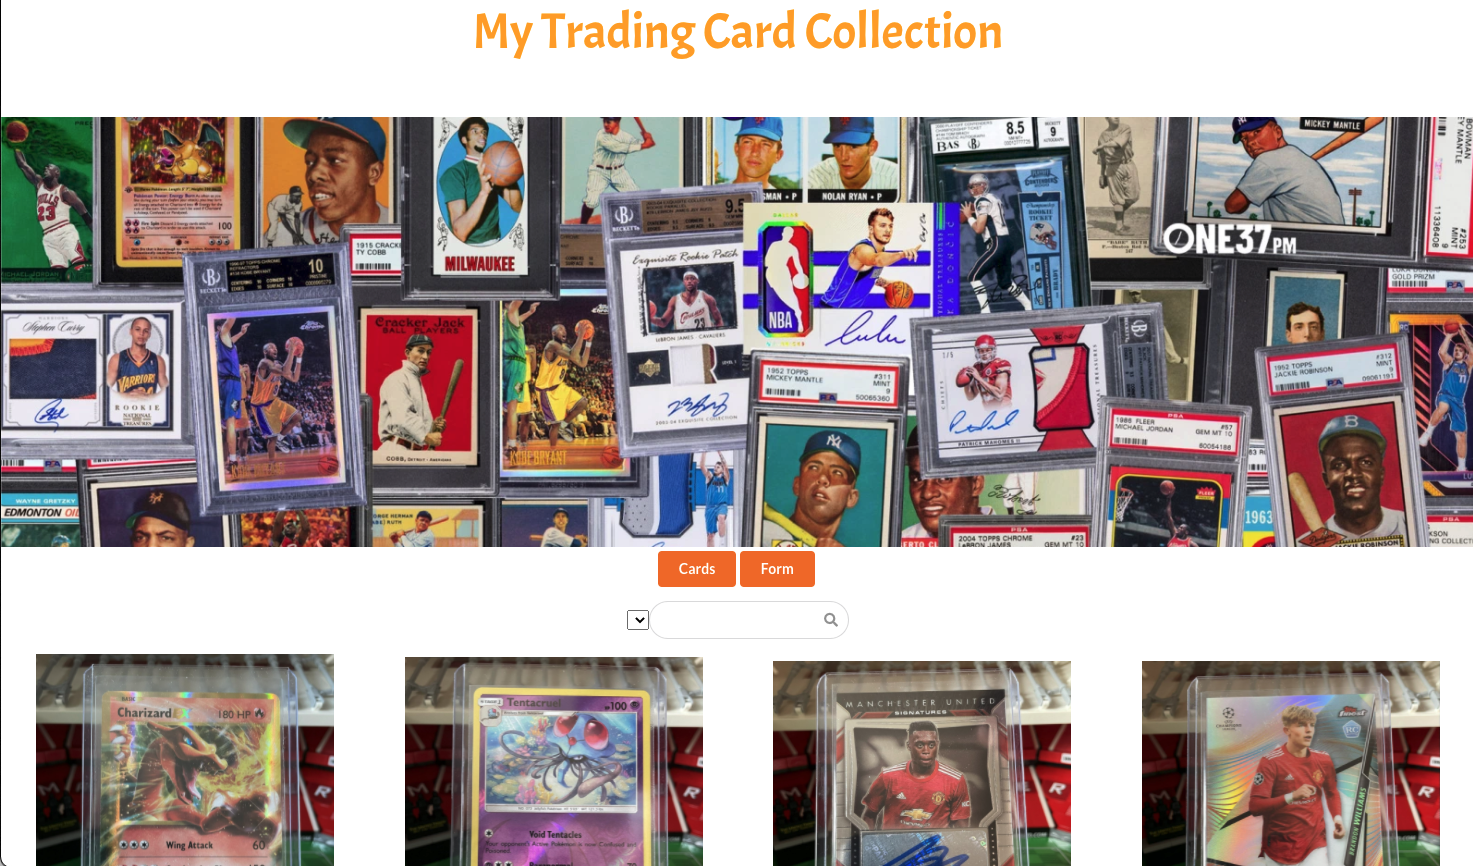
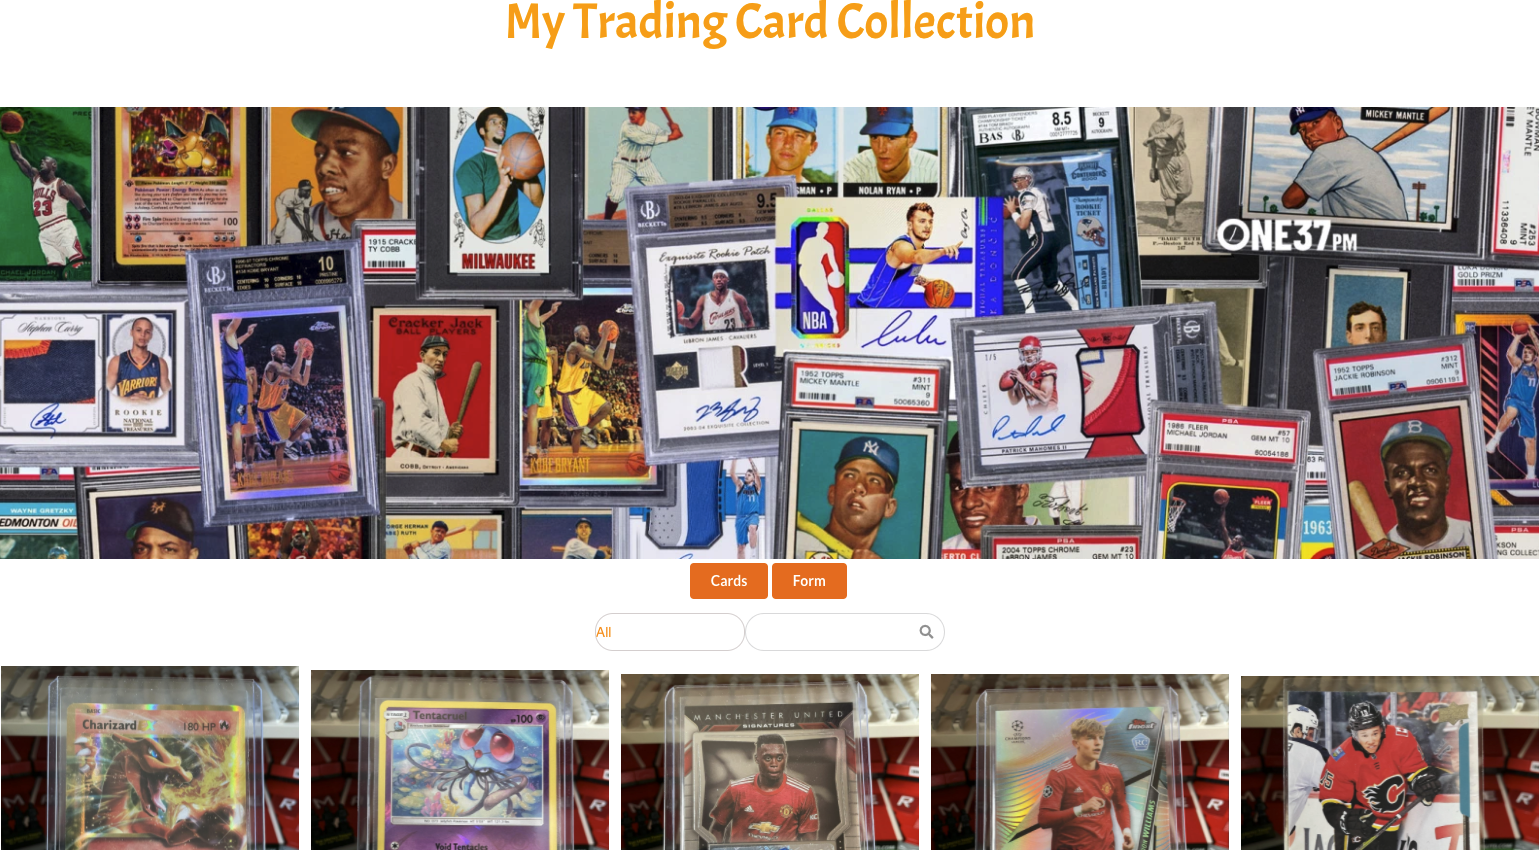
updated readme image and some css

diff --git a/src/App.css b/src/App.css
@@ -29,7 +29,6 @@
 
 .card-display {
   display: flex;
-
   flex-flow: row wrap;
   justify-content: space-around;
   align-items: center;
@@ -121,6 +120,7 @@
 /* drop down menus */
   select {
 	appearance: none;
+
 	outline: 0;
 	background: white;
 	background-image: none;
@@ -131,10 +131,12 @@
 	border:1px solid rgb(218, 212, 212);
 	border-radius:3px;
 	padding-right: 10px;
-	font-size: 25px;
+	text-align: center;
+	margin: auto;
 	border-radius: 18px;
 }
 .select {
+
 	position: relative;
 	display: block;
 	width: 15em;
